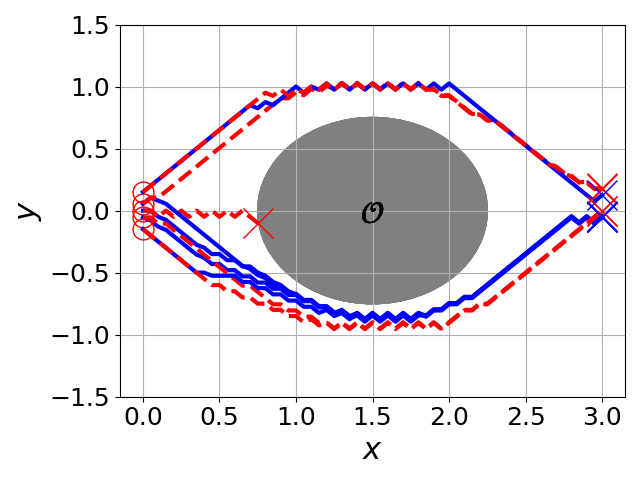
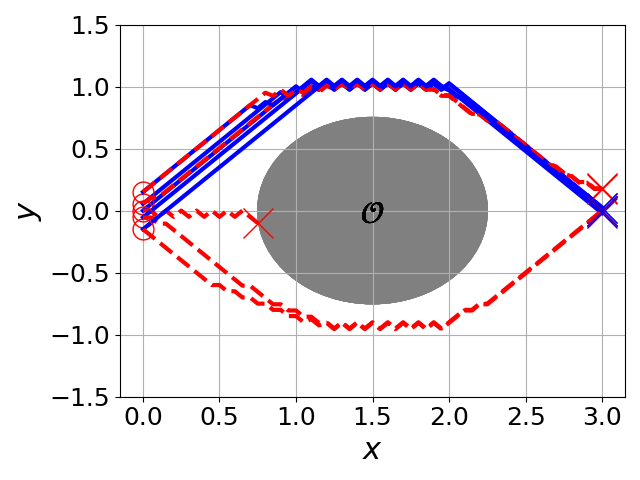
removed redundant lines

diff --git a/Original_HyRL_Code/HyRL.py b/Original_HyRL_Code/HyRL.py
@@ -3,77 +3,101 @@ import matplotlib.pyplot as plt
 from numpy import linalg as LA
 from obstacleavoidance_env import ObstacleAvoidance
 from stable_baselines3 import DQN
-from utils import find_critical_points, state_to_observation_OA, \
-    get_state_from_env_OA, find_X_i, \
-        train_hybrid_agent, M_i, M_ext, HyRL_agent, \
-            simulate_obstacleavoidance, visualize_M_ext
+from utils import (
+    find_critical_points,
+    state_to_observation_OA,
+    get_state_from_env_OA,
+    find_X_i,
+    train_hybrid_agent,
+    M_i,
+    M_ext,
+    HyRL_agent,
+    simulate_obstacleavoidance,
+    visualize_M_ext,
+)
 
-if __name__ == '__main__':
+if __name__ == "__main__":
     # Loading in the trained agent
     model = DQN.load("dqn_obstacleavoidance")
-    
+
     # finding the set of critical points
     resolution = 30
     x_ = np.linspace(0, 3, resolution)
     y_ = np.linspace(-1.5, 1.5, resolution)
-    state_difference = LA.norm(np.array([x_[1]-x_[0], y_[1]-y_[0]]))
+    state_difference = LA.norm(np.array([x_[1] - x_[0], y_[1] - y_[0]]))
     initial_points = []
 
     for idx in range(resolution):
         for idy in range(resolution):
-            initial_points.append(np.array([x_[idx], y_[idy]], 
-                                           dtype=np.float32))
-    
-    M_star = find_critical_points(initial_points, state_difference, model, 
-                                  ObstacleAvoidance, min_state_difference=1e-2, 
-                                  steps=5, threshold=1e-1, n_clusters=8, 
-                                  custom_state_to_observation=state_to_observation_OA,
-                                  get_state_from_env=get_state_from_env_OA,
-                                  verbose=False)
-    M_star = M_star[np.argsort(M_star[:,0])]
-    
+            initial_points.append(np.array([x_[idx], y_[idy]], dtype=np.float32))
+
+    M_star = find_critical_points(
+        initial_points,
+        state_difference,
+        model,
+        ObstacleAvoidance,
+        min_state_difference=1e-2,
+        steps=5,
+        threshold=1e-1,
+        n_clusters=8,
+        custom_state_to_observation=state_to_observation_OA,
+        get_state_from_env=get_state_from_env_OA,
+        verbose=False,
+    )
+    M_star = M_star[np.argsort(M_star[:, 0])]
+
     # building sets M_0 and M_1
     M_0 = M_i(M_star, index=0)
     M_1 = M_i(M_star, index=1)
-    
+
     # finding the extension sets
     X_0 = find_X_i(M_0, model)
     X_1 = find_X_i(M_1, model)
     M_ext0 = M_ext(M_0, X_0)
     M_ext1 = M_ext(M_1, X_1)
-    
+
     # visualizing the extended sets
     visualize_M_ext(M_ext0, figure_number=1)
     visualize_M_ext(M_ext1, figure_number=2)
-    
+
     # building the environment for hybrid learning
     env_0 = ObstacleAvoidance(hybridlearning=True, M_ext=M_ext0)
     env_1 = ObstacleAvoidance(hybridlearning=True, M_ext=M_ext1)
-    
+
     # training the new agents
     training2 = False
     if training2:
-        agent_0 = train_hybrid_agent(env_0, load_agent='dqn_obstacleavoidance', 
-                                      save_name='dqn_obstacleavoidance_0',
-                                      M_exti=M_ext0, timesteps=300000)
-        agent_1 = train_hybrid_agent(env_1, load_agent='dqn_obstacleavoidance', 
-                                      save_name='dqn_obstacleavoidance_1',
-                                      M_exti=M_ext1, timesteps=300000)
+        agent_0 = train_hybrid_agent(
+            env_0,
+            load_agent="dqn_obstacleavoidance",
+            save_name="dqn_obstacleavoidance_0",
+            M_exti=M_ext0,
+            timesteps=300000,
+        )
+        agent_1 = train_hybrid_agent(
+            env_1,
+            load_agent="dqn_obstacleavoidance",
+            save_name="dqn_obstacleavoidance_1",
+            M_exti=M_ext1,
+            timesteps=300000,
+        )
     else:
-        agent_0 = DQN.load('dqn_obstacleavoidance_0')
-        agent_1 = DQN.load('dqn_obstacleavoidance_1')
-    
-    # simulation the hybrid agent compared to the original agent    
-    starting_conditions = [np.array([0., 0.0], dtype=np.float32),
-                           np.array([0., 0.055], dtype=np.float32),
-                           np.array([0., -.055], dtype=np.float32),
-                           np.array([0., 0.15], dtype=np.float32),
-                           np.array([0., -.15], dtype=np.float32),]
+        agent_0 = DQN.load("dqn_obstacleavoidance_0")
+        agent_1 = DQN.load("dqn_obstacleavoidance_1")
+
+    # simulation the hybrid agent compared to the original agent
+    starting_conditions = [
+        np.array([0.0, 0.0], dtype=np.float32),
+        np.array([0.0, 0.055], dtype=np.float32),
+        np.array([0.0, -0.055], dtype=np.float32),
+        np.array([0.0, 0.15], dtype=np.float32),
+        np.array([0.0, -0.15], dtype=np.float32),
+    ]
     for q in range(2):
         for state_init in starting_conditions:
-            hybrid_agent = HyRL_agent(agent_0, agent_1, M_ext0, M_ext1, 
-                                      q_init=q)
-            simulate_obstacleavoidance(hybrid_agent, model, state_init, 
-                                       figure_number=3+q)
-        save_name = 'OA_HyRLDQN_Sim_q'+str(q)+'.eps'
-        plt.savefig(save_name, format='eps')
+            hybrid_agent = HyRL_agent(agent_0, agent_1, M_ext0, M_ext1, q_init=q)
+            simulate_obstacleavoidance(
+                hybrid_agent, model, state_init, figure_number=3 + q
+            )
+        save_name = "OA_HyRLDQN_Sim_q" + str(q) + ".eps"
+        plt.savefig(save_name, format="eps")

diff --git a/src/rl_policy/server.py b/src/rl_policy/server.py
@@ -37,9 +37,8 @@ obstacle_radius = 0.75  # Default radius
 goal_position = [3.0, 0.0]  # Default [x_goal, y_goal]
 generate_sim_plot = False
 
-def initialize_models(
-    x_obst=1.5, y_obst=0.0, radius_obst=0.75, x_goal=3.0, y_goal=0.0
-):
+
+def initialize_models():
     global model, agent_0, agent_1, M_ext0, M_ext1, hybrid_agent
 
     # Load pre-trained models
@@ -48,32 +47,21 @@ def initialize_models(
     agent_1 = DQN.load("rl_policy/dqn_models/dqn_obstacleavoidance_1")
     print("✅ Succesfully loaded pre-trained models")
 
-    env_class = lambda **kwargs: ObstacleAvoidance(
-        x_obst=x_obst,
-        y_obst=y_obst,
-        radius_obst=radius_obst,
-        x_goal=x_goal,
-        y_goal=y_goal,
-        **kwargs,
-    )
-    print("✅ Succesfully defined environment")
-
     # Compute critical points (simplify if no obstacle)
     resolution = 30
     x_ = np.linspace(0, 3, resolution)
     y_ = np.linspace(-1.5, 1.5, resolution)
     state_difference = np.linalg.norm(np.array([x_[1] - x_[0], y_[1] - y_[0]]))
-    initial_points = [
-        np.array([x_[idx], y_[idy]], dtype=np.float32)
-        for idx in range(resolution)
-        for idy in range(resolution)
-    ]
+    initial_points = []
+    for idx in range(resolution):
+        for idy in range(resolution):
+            initial_points.append(np.array([x_[idx], y_[idy]], dtype=np.float32))
 
     M_star = find_critical_points(
         initial_points,
         state_difference,
         model,
-        env_class,
+        ObstacleAvoidance,
         min_state_difference=1e-2,
         steps=5,
         threshold=1e-1,
@@ -85,13 +73,12 @@ def initialize_models(
     M_star = M_star[np.argsort(M_star[:, 0])]
     print("✅ Succesfully computed M_star")
 
-
     # Build regions and extension regions
     print("✅ Initializing Build Regions")
     M_0 = M_i(M_star, index=0)
     M_1 = M_i(M_star, index=1) if len(M_star) > 1 else M_0  # Fallback if only one point
     print("✅ Succesfully built M_0 and M_1")
-    X_0 = find_X_i(M_0, model) # Minimal extension
+    X_0 = find_X_i(M_0, model)  # Minimal extension
     X_1 = find_X_i(M_1, model)
     print("✅ Succesfully built X_0 and X_1")
     M_ext0 = M_ext(M_0, X_0)
@@ -121,6 +108,7 @@ def initialize_models(
             save_name = "OA_HyRLDQN_Sim_q" + str(q) + ".png"
             plt.savefig(save_name, format="png")
         print("✅ saved png file")
+
 
 class DroneService(drone_grpc.DroneServiceBase):
     # Calls training_env -> train_agent -> HyRL -> utils
@@ -217,20 +205,11 @@ class DroneService(drone_grpc.DroneServiceBase):
         print(f"Received drone state: {request}")
 
         # Extract 2D position
-        state = np.array(
-            [request.drone_state.x, request.drone_state.y], dtype=np.float32
-        )
+        state = np.array([request.drone_state.x, request.drone_state.y])
         print(f"Drone State:  {state}")
 
         # Compute observation
-        obs = state_to_observation_OA(
-            state,
-            x_obst=obstacle_centroid[0],
-            y_obst=obstacle_centroid[1],
-            radius_obst=obstacle_radius,
-            x_goal=goal_position[0],
-            y_goal=goal_position[1],
-        )
+        obs = state_to_observation_OA(state)
         print(f"observation: {obs}")
 
         # Get action from hybrid agent

diff --git a/src/rl_policy/training_tools.py b/src/rl_policy/training_tools.py
@@ -305,27 +305,22 @@ class HyRL_agent:
         self.M_ext1 = M_ext1
         self.q = q_init
 
-
-    def predict(self, obs):  # Change to accept obs directly
-        switch = -10
-        state = obs[:2]  # Extract [x, y] if obs is augmented
+    def predict(self, obs):
+        state = obs[:2]  # Extract [x, y] from [dist_obst, dist_goal, y]
         if self.q == 0:
             if self.M_ext0.in_M_ext(state):
                 active_agent = self.agent_0
             else:
-                switch = 1
                 self.q = 1
                 active_agent = self.agent_1
         elif self.q == 1:
             if self.M_ext1.in_M_ext(state):
                 active_agent = self.agent_1
             else:
-                switch = 1
                 self.q = 0
                 active_agent = self.agent_0
         action, _ = active_agent.predict(obs, deterministic=True)  # Use obs directly
-        return action, switch
-
+        return action, self.q
 
 def simulate_obstacleavoidance(
     hybrid_agent,
@@ -340,19 +335,23 @@ def simulate_obstacleavoidance(
     done = False
     state_or, state_hyb = state_init, state_init
     states_or, states_hyb = [state_or], [state_hyb]
-    _, switch = hybrid_agent.predict(state_hyb)
+    # Compute initial observation for hybrid agent
+    obs_hyb = state_to_observation_OA(state_hyb)  # Add this
+    _, switch = hybrid_agent.predict(obs_hyb)  # Use obs_hyb, not state_hyb
     switches = []
     score_or, score_hyb = 0, 0
     sign = 1
     stop_appending_or, stop_appending_hyb = False, False
-    while done == False:
+    while not done:
         noise = noise_mag * sign
         disturbance = np.array([0, noise], dtype=np.float32)
 
-        action_or, _ = original_agent.predict(
-            state_to_observation_OA(state_or + disturbance), deterministic=True
-        )
-        action_hyb, switch = hybrid_agent.predict(state_hyb + disturbance)
+        # Apply disturbance and compute observations
+        obs_or = state_to_observation_OA(state_or + disturbance)
+        obs_hyb = state_to_observation_OA(state_hyb + disturbance)
+
+        action_or, _ = original_agent.predict(obs_or, deterministic=True)
+        action_hyb, switch = hybrid_agent.predict(obs_hyb)  # Use obs_hyb
 
         env_or.state = state_or
         env_hyb.state = state_hyb
@@ -364,19 +363,19 @@ def simulate_obstacleavoidance(
 
         if env_or.terminate:
             stop_appending_or = True
-        if stop_appending_or == False:
+        if not stop_appending_or:
             states_or.append(state_or)
             score_or += reward_or
 
         if env_hyb.terminate:
             stop_appending_hyb = True
-        if stop_appending_hyb == False:
+        if not stop_appending_hyb:
             states_hyb.append(state_hyb)
             score_hyb += reward_hyb
             switches.append(switch * states_hyb[-1])
 
         sign *= -1
-
+        
     plt.figure(figure_number)
     plt.plot(
         np.array(states_hyb)[:, 0], np.array(states_hyb)[:, 1], "blue", linewidth=3
